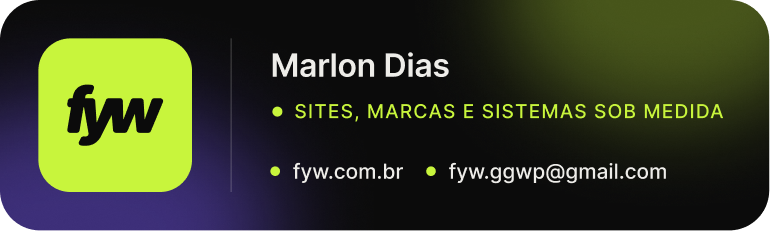
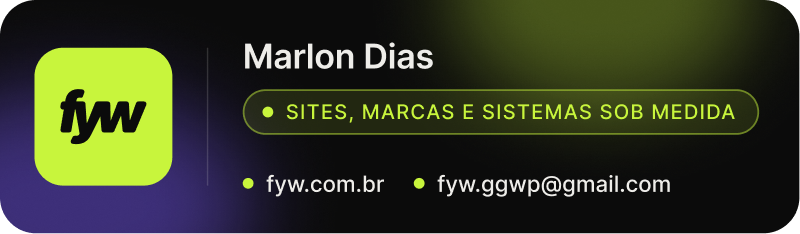
Assinatura: textos maiores, selo com fundo e borda de volta, 400px de largura (animada, parada e PNG do Gmail)

diff --git a/assinatura.html b/assinatura.html
@@ -43,14 +43,14 @@ ol.nota { padding-left: 18px; display: grid; gap: 6px; }
 
   <section class="box">
     <h2>Prévia animada (SVG)</h2>
-    <div class="palco"><a href="https://fyw.com.br" target="_blank" rel="noopener"><img id="svgPrev" alt="Assinatura Fyw" width="320" height="92"></a></div>
+    <div class="palco"><a href="https://fyw.com.br" target="_blank" rel="noopener"><img id="svgPrev" alt="Assinatura Fyw" width="400" height="116"></a></div>
     <div class="url" id="svgUrl"></div>
     <div class="acoes"><button class="btn acc" data-copia="svgUrl">Copiar link do SVG</button><a class="btn" id="svgAbrir" target="_blank" rel="noopener" style="display:inline-flex;align-items:center;text-decoration:none">Abrir o SVG</a></div>
   </section>
 
   <section class="box">
     <h2>SVG parado</h2>
-    <div class="palco"><a href="https://fyw.com.br" target="_blank" rel="noopener"><img id="estPrev" alt="Assinatura Fyw" width="320" height="92"></a></div>
+    <div class="palco"><a href="https://fyw.com.br" target="_blank" rel="noopener"><img id="estPrev" alt="Assinatura Fyw" width="400" height="116"></a></div>
     <div class="url" id="estUrl"></div>
     <div class="acoes"><button class="btn acc" data-copia="estUrl">Copiar link do SVG parado</button><a class="btn" id="estAbrir" target="_blank" rel="noopener" style="display:inline-flex;align-items:center;text-decoration:none">Abrir o SVG</a></div>
   </section>
@@ -73,12 +73,12 @@ ol.nota { padding-left: 18px; display: grid; gap: 6px; }
 (async function () {
   try { const r = await fetch('/api/painel?a=me', { credentials: 'same-origin' }); if (r.status === 401) { location.href = '/painel?volta=assinatura'; return; } } catch (e) {}
   document.getElementById('app').hidden = false;
-  const base = location.origin, svg = base + '/assets/assinatura/assinatura-fyw.svg', png = base + '/assets/assinatura/assinatura-fyw.png?v=2';
+  const base = location.origin, svg = base + '/assets/assinatura/assinatura-fyw.svg?v=2', png = base + '/assets/assinatura/assinatura-fyw.png?v=3';
   const $ = id => document.getElementById(id), ok = t => { $('ok').textContent = t; setTimeout(() => { $('ok').textContent = ''; }, 2500); };
-  const est = base + '/assets/assinatura/assinatura-fyw-estatica.svg';
+  const est = base + '/assets/assinatura/assinatura-fyw-estatica.svg?v=2';
   $('svgPrev').src = svg; $('svgUrl').textContent = svg; $('svgAbrir').href = svg; $('pngUrl').textContent = png;
   $('estPrev').src = est; $('estUrl').textContent = est; $('estAbrir').href = est;
-  const html = '<a href="https://fyw.com.br" target="_blank"><img src="' + png + '" alt="Fyw · fyw.com.br" width="320" height="96" style="display:block;border:0;width:320px;height:96px"></a>';
+  const html = '<a href="https://fyw.com.br" target="_blank"><img src="' + png + '" alt="Fyw · fyw.com.br" width="400" height="117" style="display:block;border:0;width:400px;height:117px"></a>';
   $('gmail').innerHTML = html;
   document.querySelectorAll('[data-copia]').forEach(b => b.onclick = async () => { await navigator.clipboard.writeText($(b.dataset.copia).textContent); ok('Link copiado.'); });
   $('copiaGmail').onclick = async () => {
